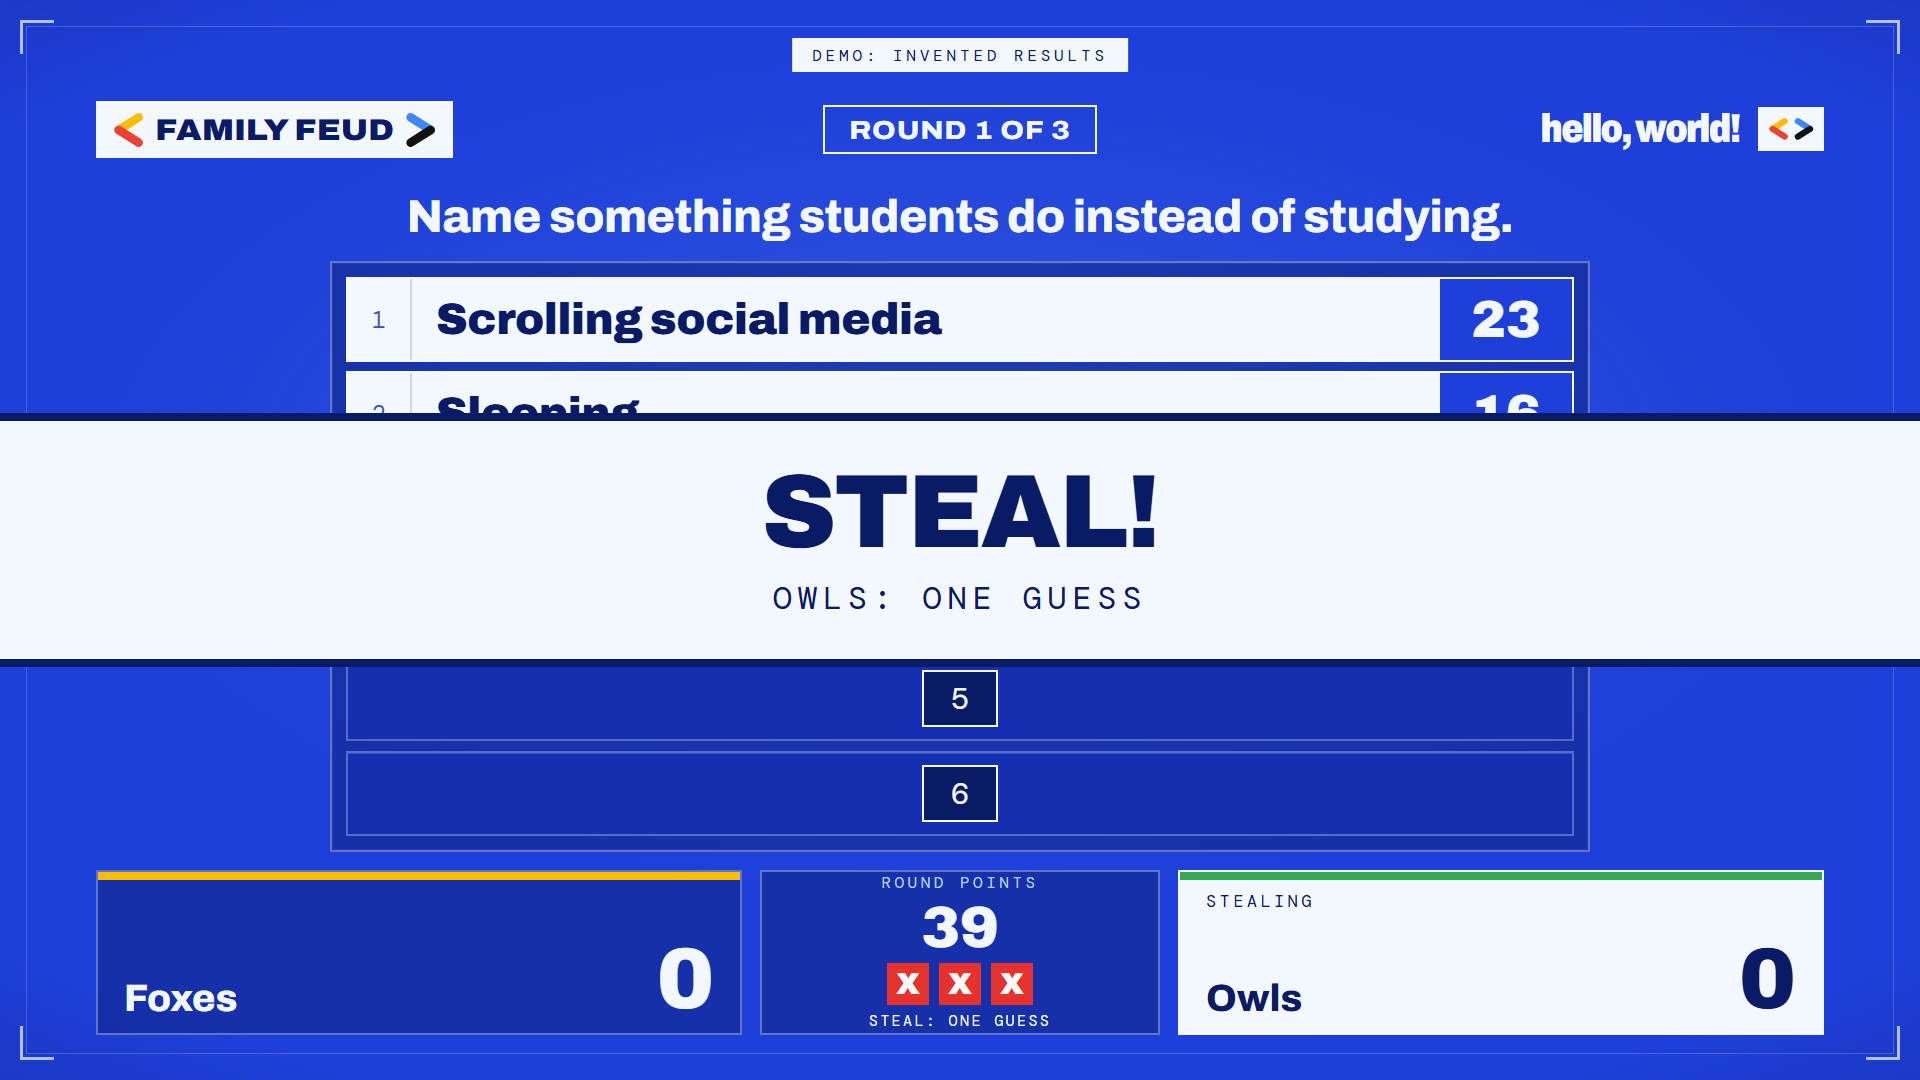
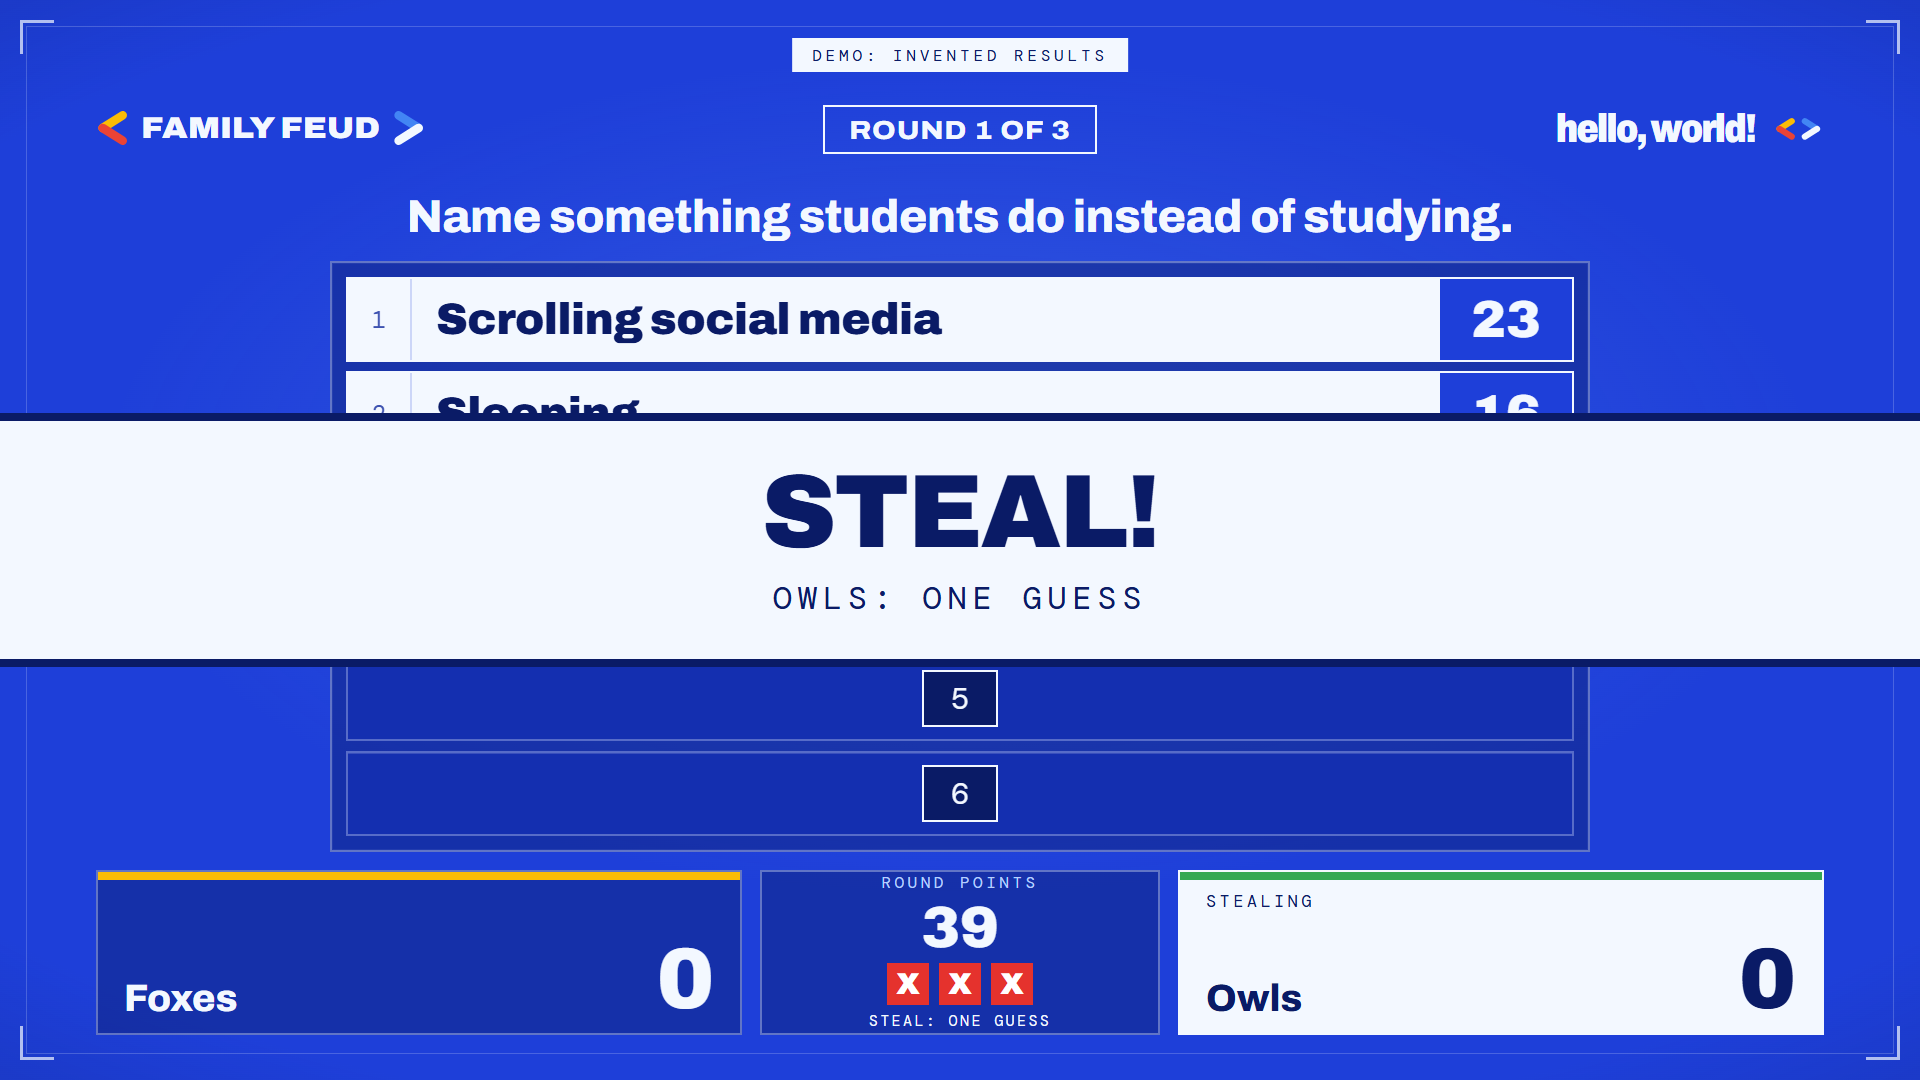
Put the GDG mark and FAMILY FEUD title straight on the ice, no white plates
The mark's black stroke turns frost on cobalt so it stays visible; the
console's light header keeps the true black.

Changed region(s): [[0.0312, 0.0917, 0.25, 0.1528], [0.7812, 0.0917, 0.9688, 0.1528]]

diff --git a/src/styles/app.css b/src/styles/app.css
@@ -50,14 +50,13 @@ a { color: inherit; }
 
 .s-label { font-family: var(--font-mono); font-size: 16px; letter-spacing: 0.22em; color: var(--rime); text-transform: uppercase; }
 .s-pill { display: inline-block; padding: 10px 22px; border: 2px solid var(--frost); font-family: var(--font-mono); font-size: 20px; letter-spacing: 0.22em; color: var(--frost); }
-.gdg-plate { display: inline-grid; place-items: center; flex: none; background: var(--frost); }
-.gdg-plate svg { display: block; }
+.gdg-mark { display: block; flex: none; }
 .chevron { display: block; flex: none; }
 
-/* the game title, always on frost so the coloured brackets sit where Blue Ice allows them */
-.title-plate { display: inline-flex; align-items: center; background: var(--frost); color: var(--cobalt-deep); font-weight: 900; font-variation-settings: "wdth" 112; line-height: 0.9; white-space: nowrap; }
-.title-plate--lg { gap: 30px; padding: 26px 46px 24px; font-size: 136px; letter-spacing: -0.01em; outline: 2px solid rgba(243, 248, 255, 0.42); outline-offset: 14px; box-shadow: 0 0 80px 0 rgba(191, 214, 255, 0.28); }
-.title-plate--sm { gap: 10px; padding: 9px 16px 8px; font-size: 30px; letter-spacing: 0.01em; }
+/* the game title in frost straight on the ice, its brackets drawn as the club mark's coloured chevrons */
+.title-plate { display: inline-flex; align-items: center; color: var(--frost); font-weight: 900; font-variation-settings: "wdth" 112; line-height: 0.9; white-space: nowrap; }
+.title-plate--lg { gap: 36px; font-size: 144px; letter-spacing: -0.01em; text-shadow: 0 0 44px rgba(191, 214, 255, 0.45); }
+.title-plate--sm { gap: 12px; font-size: 30px; letter-spacing: 0.01em; }
 .title-plate__text { display: block; transform: translateY(0.03em); }
 
 /* header on every screen but the title card */
@@ -82,7 +81,7 @@ a { color: inherit; }
 .lobby__mark svg { overflow: visible; }
 .lobby__title, .lobby__teams { position: relative; z-index: 1; }
 .lobby__mark .wordmark-host { margin: 0 auto; }
-.lobby__title { margin: 0 0 58px; font-size: inherit; }
+.lobby__title { margin: 6px 0 62px; font-size: inherit; }
 .lobby__teams { width: 1460px; display: grid; grid-template-columns: minmax(0, 1fr) auto minmax(0, 1fr); align-items: stretch; gap: 30px; }
 .lobby__team { display: flex; align-items: center; justify-content: center; gap: 20px; min-height: 108px; padding: 18px 30px; border: 2px solid rgba(243, 248, 255, 0.5); background: var(--well); font-size: 54px; font-weight: 900; font-variation-settings: "wdth" 100; letter-spacing: -0.01em; line-height: 1.02; text-transform: uppercase; text-wrap: balance; overflow-wrap: anywhere; }
 .lobby__team--long { font-size: 40px; }
@@ -340,7 +339,6 @@ a { color: inherit; }
 .team-dot { display: inline-block; width: 10px; height: 10px; margin-right: 8px; vertical-align: 1px; }
 .team-dot--a { background: #FBBC04; }
 .team-dot--b { background: #34A853; }
-.host .gdg-plate { border: 1px solid var(--hair); }
 .score__name { font-weight: 700; font-size: 15px; overflow: hidden; text-overflow: ellipsis; white-space: nowrap; }
 .score__num { font-size: 40px; font-weight: 900; line-height: 1; font-variant-numeric: tabular-nums; }
 .score__tag { font-size: 12px; font-weight: 700; text-transform: uppercase; letter-spacing: 0.08em; }

diff --git a/src/ui/GdgMark.tsx b/src/ui/GdgMark.tsx
@@ -1,27 +1,28 @@
-// The club's bracket mark in its own four colours (kit/assets/logo-mark.svg in gdg-resources). Blue Ice allows the
-// colour mark only small and on Frost, so every use sits on a frost plate.
-const STROKES = [
+// The club's bracket mark in its four colours (kit/assets/logo-mark.svg in gdg-resources), drawn straight onto the
+// surface. Its ink stroke is #111111 on light surfaces and flips to frost on the cobalt sheet, where black would vanish.
+type Tone = "dark" | "light";
+const INK: Record<Tone, string> = { dark: "#F3F8FF", light: "#111111" };
+const strokes = (tone: Tone) => [
   { d: "M16 34 L46 15", c: "#FBBC04" },
   { d: "M16 34 L46 53", c: "#EA4335" },
   { d: "M78 15 L108 34", c: "#4285F4" },
-  { d: "M78 53 L108 34", c: "#111111" },
+  { d: "M78 53 L108 34", c: INK[tone] },
 ];
 
-export function GdgMark({ size = 56, label = "Google Developer Groups on Campus" }: { size?: number; label?: string }) {
+export function GdgMark({ size = 56, tone = "dark", label = "Google Developer Groups on Campus" }: { size?: number; tone?: Tone; label?: string }) {
   return (
-    <span className="gdg-plate" style={{ width: size * 1.5, height: size }}>
-      <svg viewBox="0 0 124 68" width={size * 1.15} height={size * 0.63} role="img" aria-label={label}>
-        <g fill="none" strokeLinecap="round" strokeWidth={15}>
-          {STROKES.map((s) => <path key={s.d} d={s.d} stroke={s.c} />)}
-        </g>
-      </svg>
-    </span>
+    <svg className="gdg-mark" viewBox="0 0 124 68" width={size * 1.15} height={size * 0.63} role="img" aria-label={label}>
+      <g fill="none" strokeLinecap="round" strokeWidth={15}>
+        {strokes(tone).map((s) => <path key={s.d} d={s.d} stroke={s.c} />)}
+      </g>
+    </svg>
   );
 }
 
 /** One side of the code brackets, drawn as the mark's chevron so it keeps its two colours. */
-export function Chevron({ side, height }: { side: "open" | "close"; height: number }) {
-  const [a, b] = side === "open" ? STROKES.slice(0, 2) : STROKES.slice(2);
+export function Chevron({ side, height, tone = "dark" }: { side: "open" | "close"; height: number; tone?: Tone }) {
+  const all = strokes(tone);
+  const [a, b] = side === "open" ? all.slice(0, 2) : all.slice(2);
   return (
     <svg className="chevron" viewBox={side === "open" ? "6 4 50 60" : "68 4 50 60"} width={height * (50 / 60)} height={height} aria-hidden="true">
       <g fill="none" strokeLinecap="round" strokeWidth={13}>

diff --git a/src/host/HostConsole.tsx b/src/host/HostConsole.tsx
@@ -63,7 +63,7 @@ export function HostConsole() {
   return (
     <div className="host" data-theme="frost">
       <header className="host__head">
-        <p className="host__title"><GdgMark size={28} /> Family Feud <span>Moderator</span></p>
+        <p className="host__title"><GdgMark size={28} tone="light" /> Family Feud <span>Moderator</span></p>
         <nav className="switch" role="tablist" aria-label="Console">
           <button type="button" role="tab" aria-selected={tab === "live"} className="switch__opt" onClick={() => setTab("live")}>Live</button>
           <button type="button" role="tab" aria-selected={tab === "setup"} className="switch__opt" data-tour="setup-tab" onClick={() => setTab("setup")}>Setup</button>

diff --git a/src/ui/ScreenView.tsx b/src/ui/ScreenView.tsx
@@ -20,7 +20,7 @@ const teamName = (s: PublicSnapshot, id: TeamId) => teamOf(s, id).name.toUpperCa
 /** Long names and answers step down a size instead of being cut off. */
 const fit = (text: string, steps: [number, string][]) => steps.find(([n]) => text.length > n)?.[1] ?? "";
 
-/** The game title as a frost plate, its brackets drawn as the club mark's coloured chevrons. */
+/** The game title in frost on the ice, its brackets drawn as the club mark's coloured chevrons. */
 function TitlePlate({ size }: { size: "lg" | "sm" }) {
   return (
     <span className={`title-plate title-plate--${size}`}>

diff --git a/README.md b/README.md
@@ -111,7 +111,7 @@ Every state is one centred composition inside a frost frame:
 - **Steal, points, between rounds and the winner**, all in the same style.
 
 **GDG colours** follow the club's own rules:
-- The *hello, world!* Blue Ice guide allows the four-colour bracket mark only small and on frost. So the official mark (yellow, red, blue, black) sits on frost plates, and FAMILY FEUD's code brackets are drawn as the mark's coloured chevrons on its frost title plate.
+- The official mark (yellow, red, blue, and black, drawn in frost on blue so it stays visible) and FAMILY FEUD's code brackets, drawn as the mark's coloured chevrons, sit straight on the ice with no white plates. The *hello, world!* guide keeps the Google colours off the ice, so this is a deliberate exception chosen for the game.
 - Each team keeps one fixed club colour everywhere, on the projector and the console: Team A yellow, Team B green.
 - Red means a wrong answer and nothing else.
 
